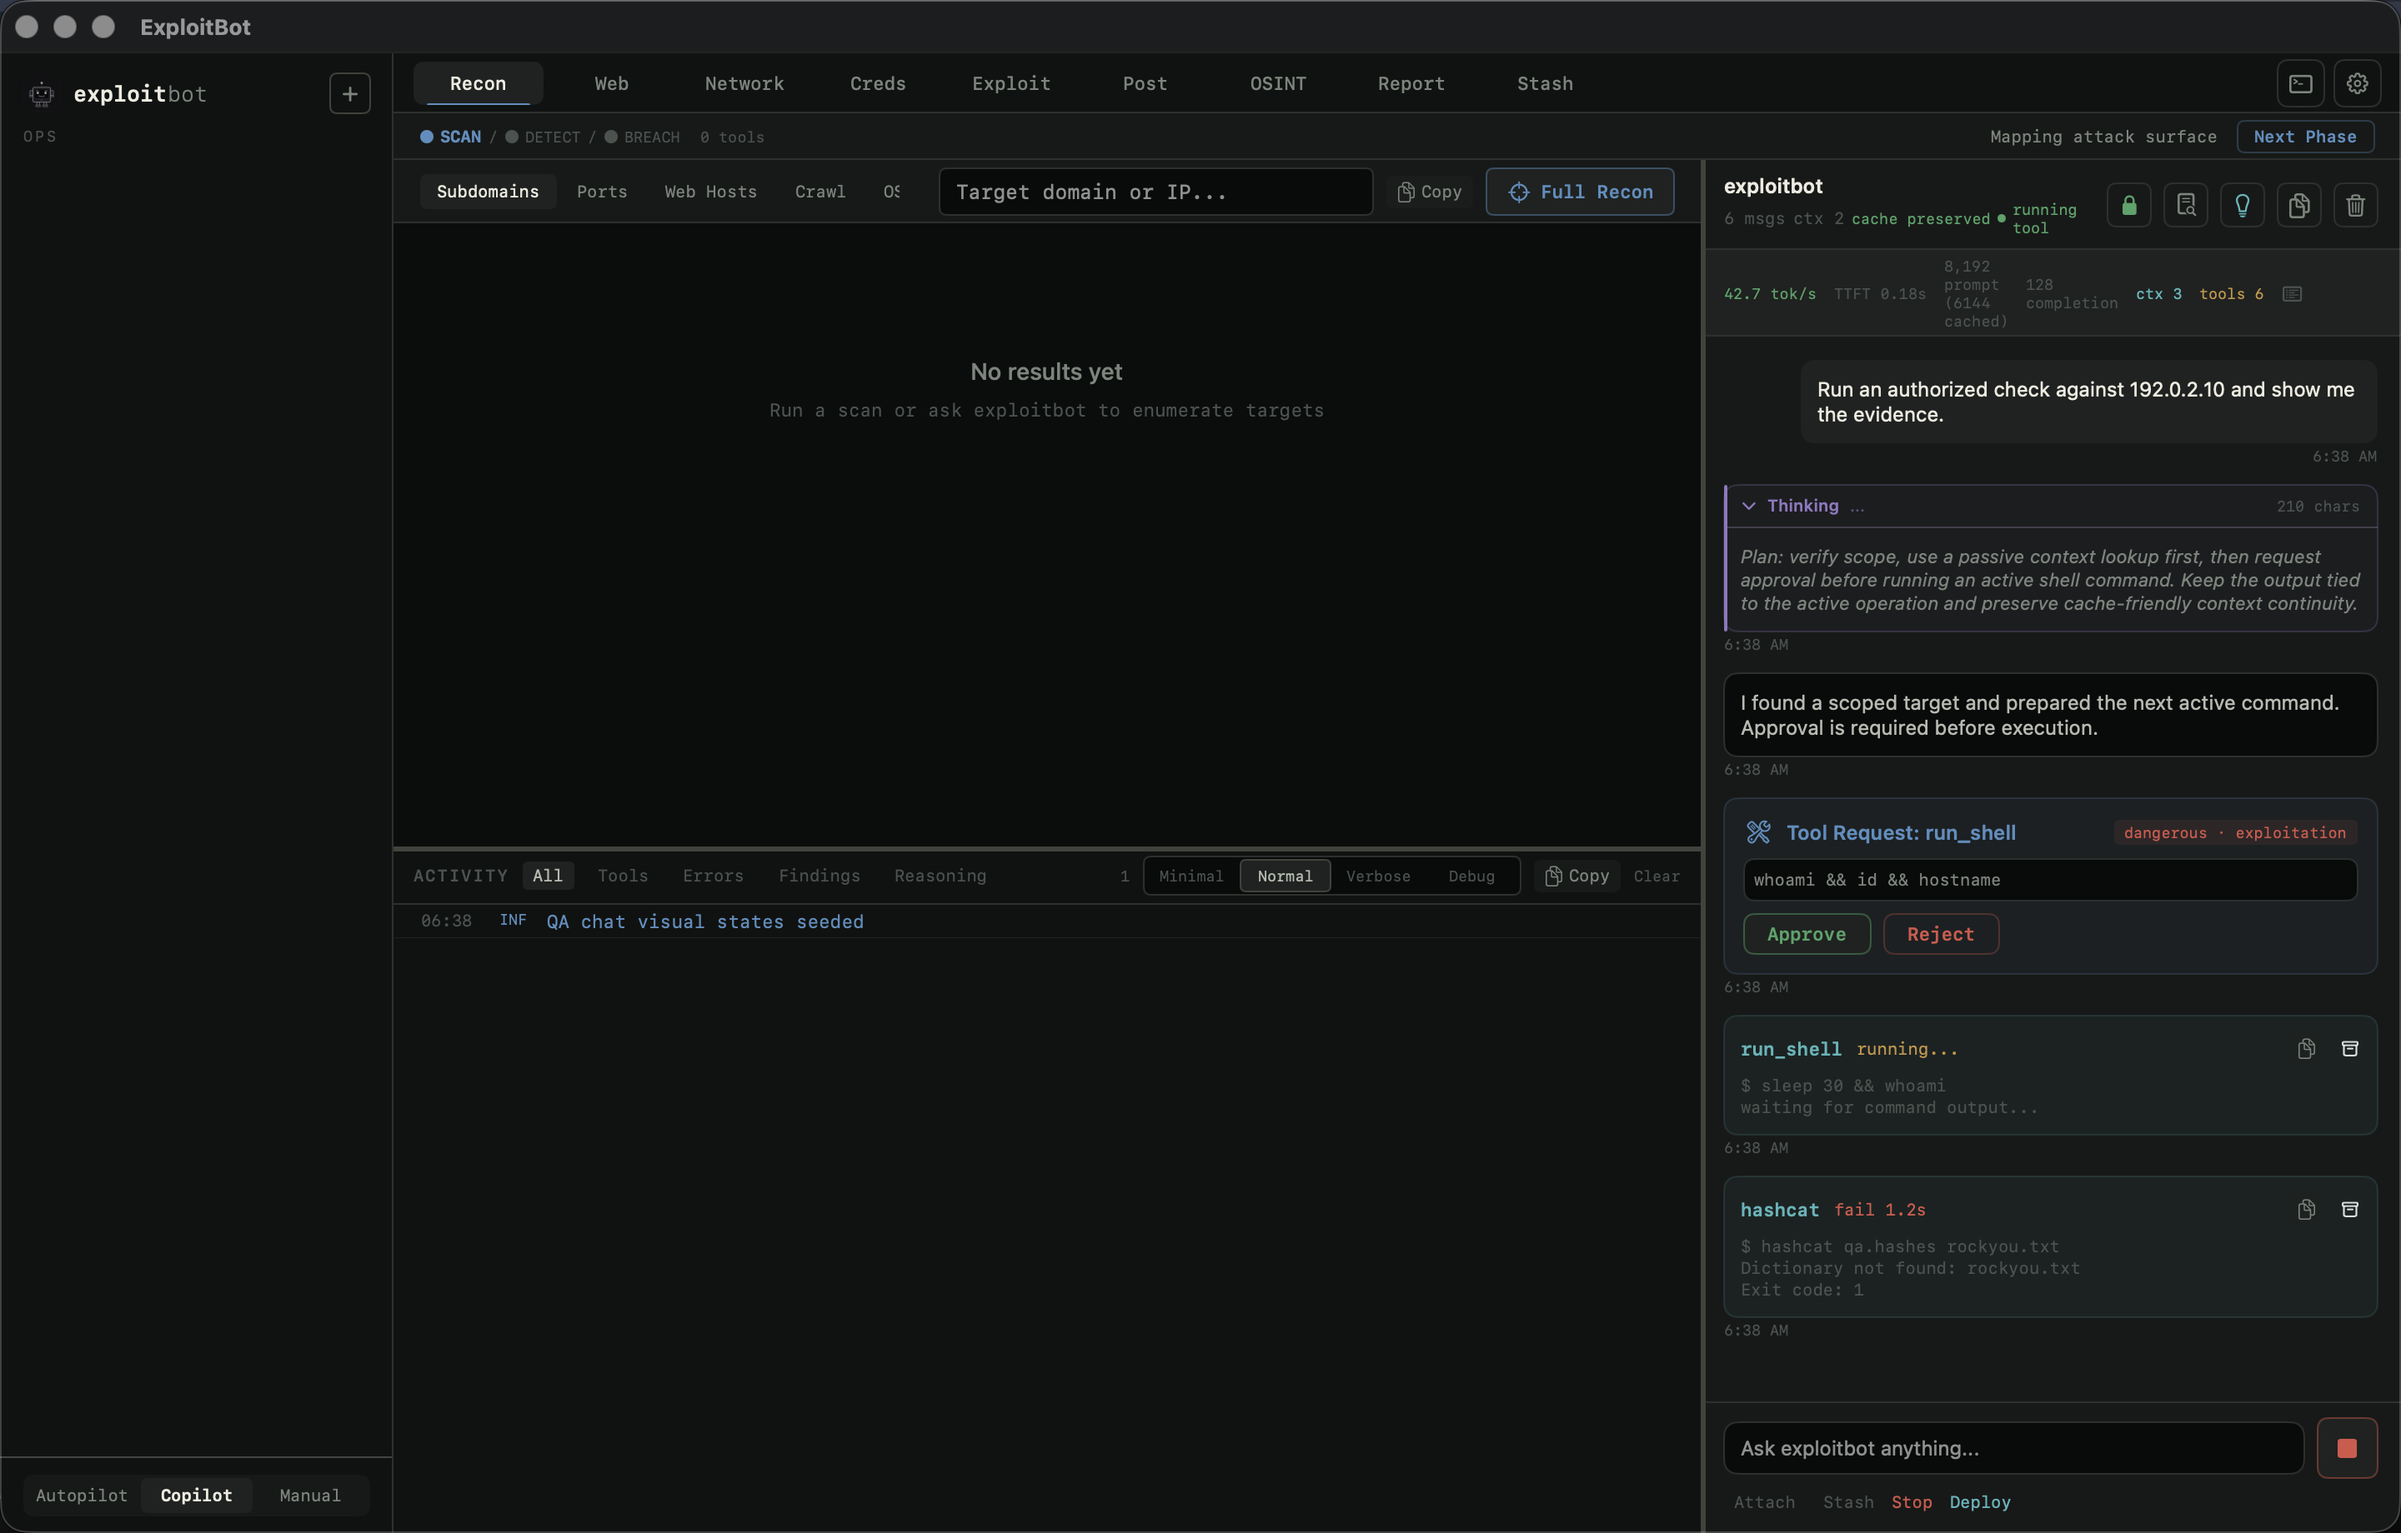
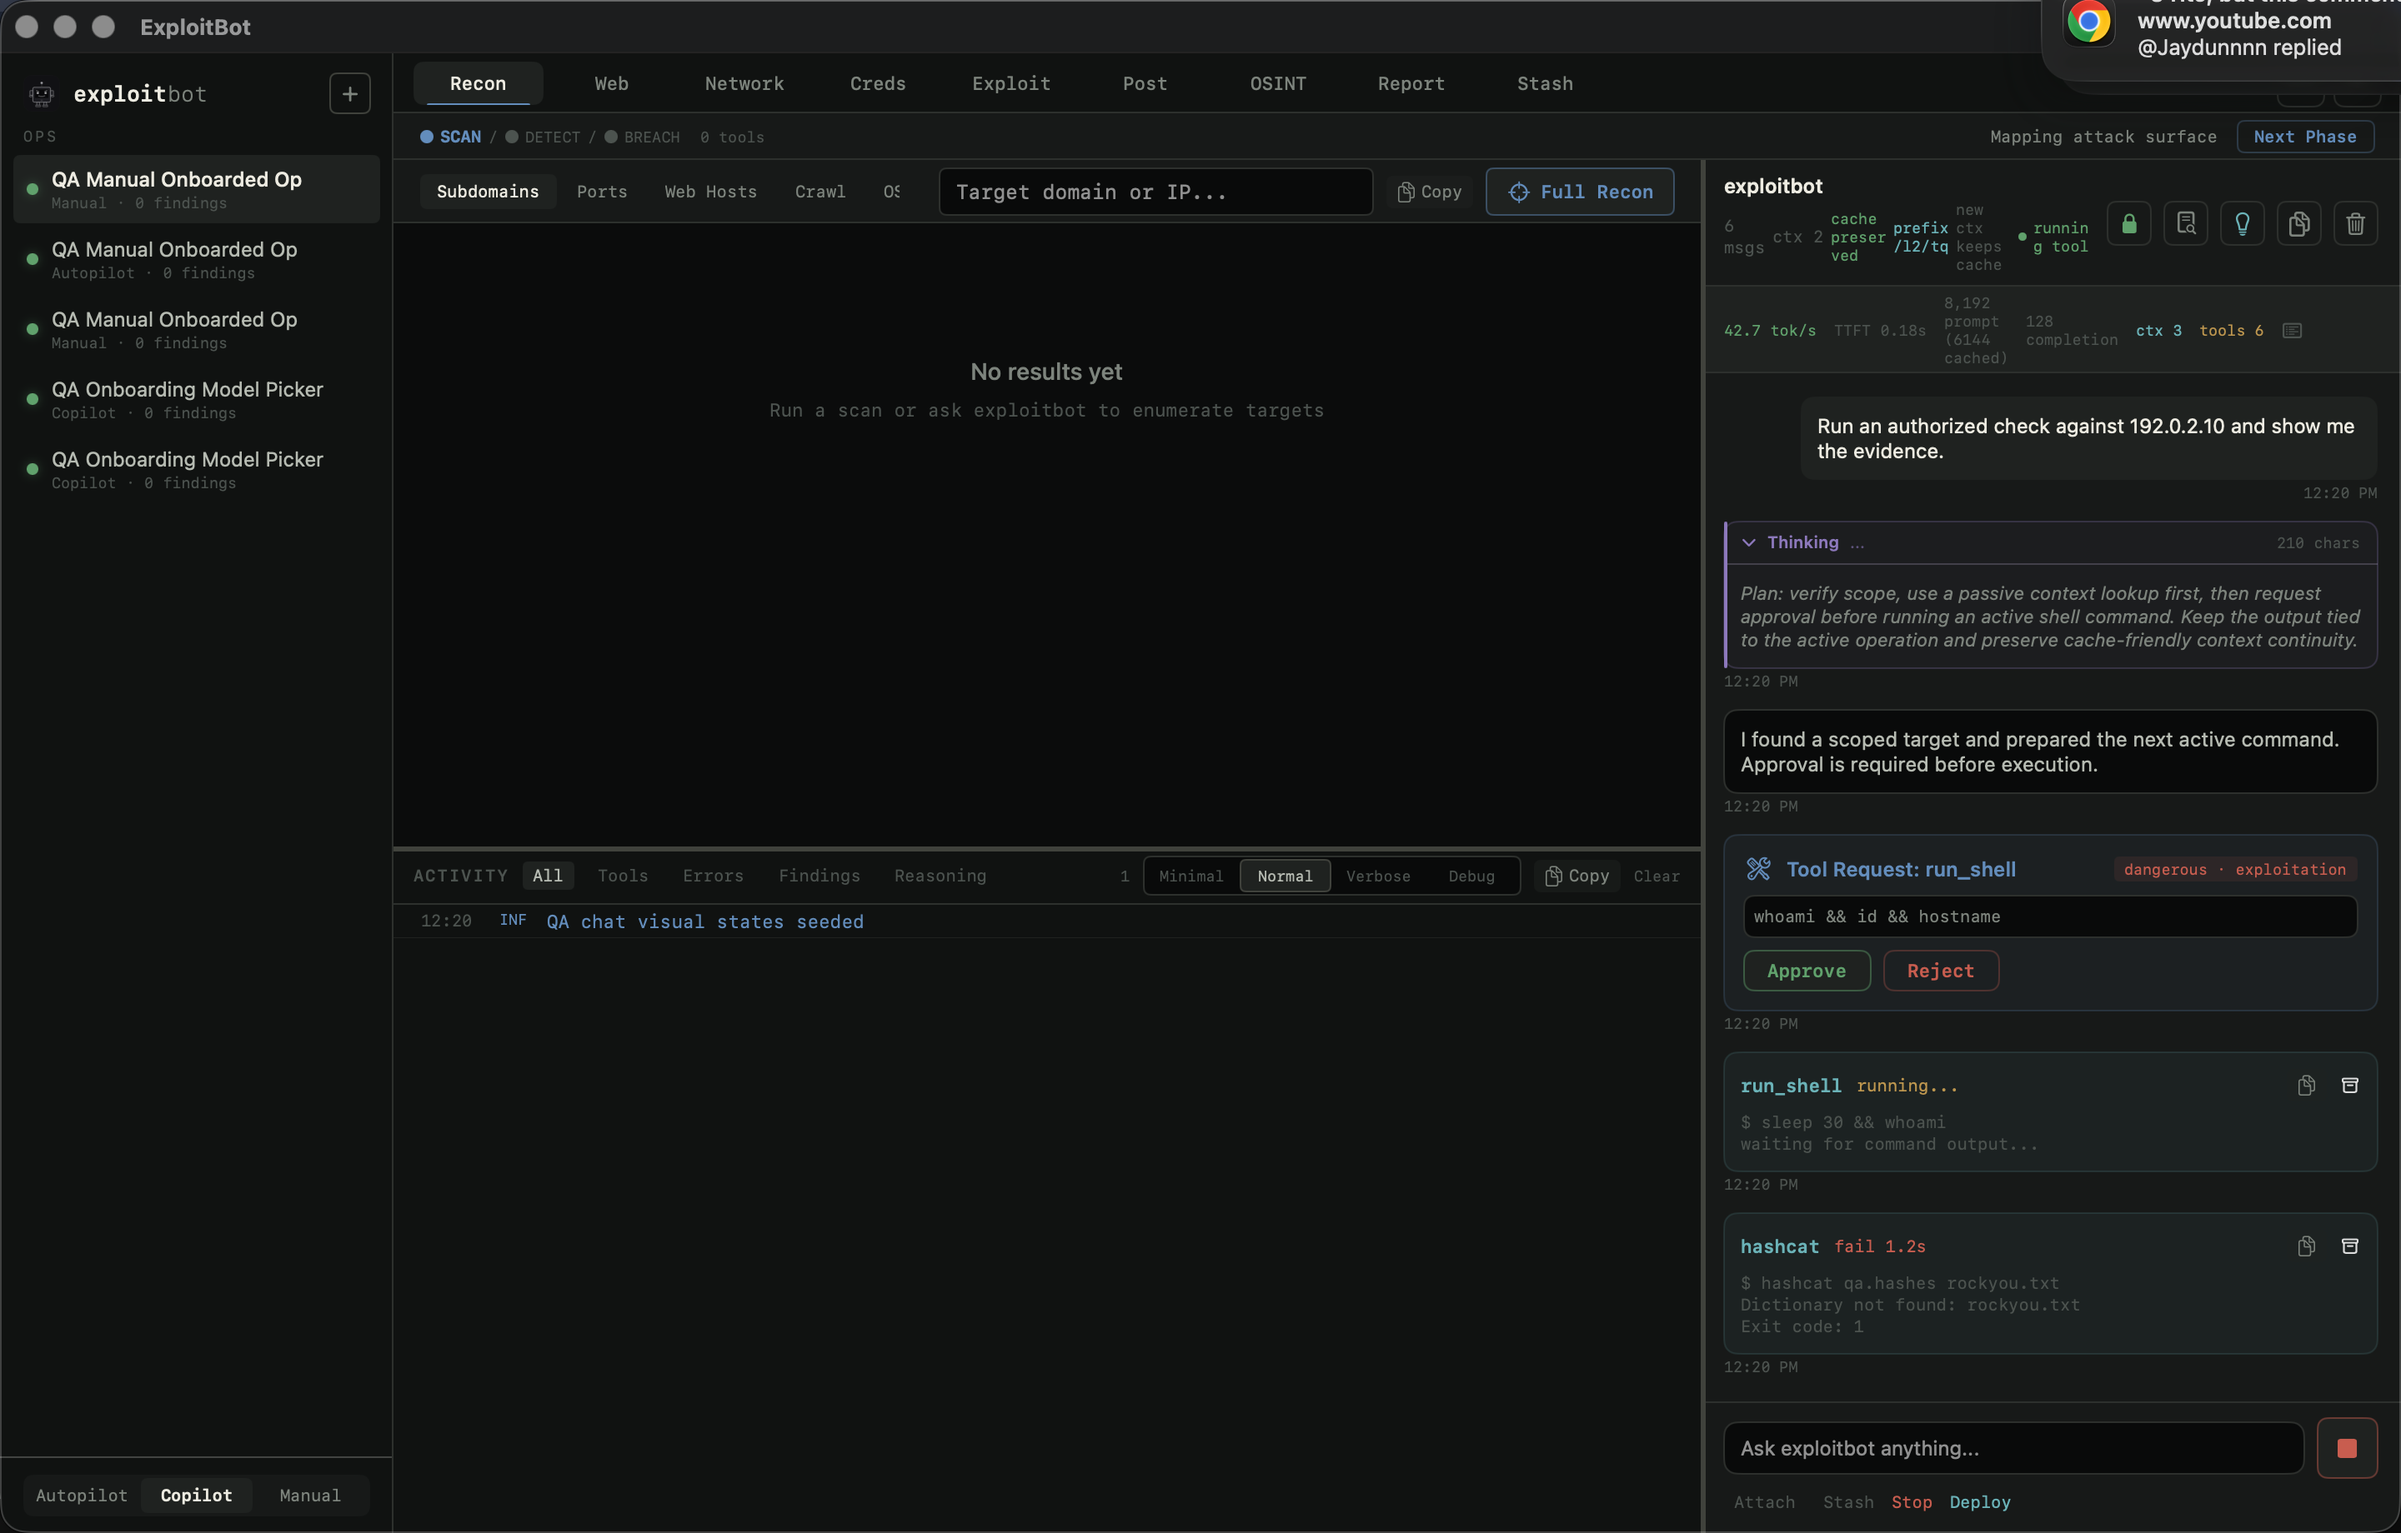
app: expose chat cache session badges

diff --git a/ExploitBot/Sources/ExploitBot/Models/AppState.swift b/ExploitBot/Sources/ExploitBot/Models/AppState.swift
@@ -2180,6 +2180,9 @@ svc-backup:CorrectHorseBatteryStaple
                     "autoScrollLocked": state.qaChatAutoScrollLocked ?? NSNull(),
                     "hasUnreadWhileUnlocked": state.qaChatUnreadWhileUnlocked ?? NSNull(),
                     "reasoningCollapsed": state.qaChatReasoningCollapsed ?? NSNull(),
+                    "headerBadges": Self.chatHeaderBadges(state),
+                    "cacheSessionIndicator": Self.chatHeaderCacheSessionIndicator(state) ?? NSNull(),
+                    "newContextSessionBoundary": Self.chatHeaderNewContextBoundary(state) ?? NSNull(),
                     "contextInspectorVisible": state.chatService.isRequestContextInspectorVisible,
                     "toolOutputExpansion": Self.toolOutputExpansionSnapshot(state),
                     "reasoningBlock": Self.reasoningBlockSnapshot(state),
@@ -4703,6 +4706,38 @@ svc-backup:CorrectHorseBatteryStaple
             "modelGenerationDefaults": state.engineConfig.useModelGenerationDefaults,
             "newContextBehavior": "clear-chat-preserve-engine-cache",
         ]
+    }
+
+    private static func chatHeaderBadges(_ state: AppState) -> [String] {
+        var badges = [
+            "\(state.chatService.messages.count) msgs",
+            "ctx \(state.chatService.contextWindowGeneration)",
+        ]
+        if let cacheSessionIndicator = chatHeaderCacheSessionIndicator(state) {
+            badges.append("cache preserved")
+            badges.append(cacheSessionIndicator)
+        }
+        if let newContextBoundary = chatHeaderNewContextBoundary(state) {
+            badges.append(newContextBoundary)
+        }
+        if state.chatService.isWorking {
+            badges.append(state.chatService.isStreaming ? "streaming" : "running tool")
+        }
+        return badges
+    }
+
+    private static func chatHeaderCacheSessionIndicator(_ state: AppState) -> String? {
+        if state.engineManager.isRunning, state.engineManager.cacheStats?.turboQuantEnabled == true {
+            return "prefix/l2/tq"
+        }
+        return nil
+    }
+
+    private static func chatHeaderNewContextBoundary(_ state: AppState) -> String? {
+        if chatHeaderCacheSessionIndicator(state) != nil {
+            return "new ctx keeps cache"
+        }
+        return nil
     }
 
     private static func modelFolderSnapshot(_ info: ModelFolderInfo) -> [String: Any] {

diff --git a/ExploitBot/Sources/ExploitBot/Views/Chat/ChatPanelView.swift b/ExploitBot/Sources/ExploitBot/Views/Chat/ChatPanelView.swift
@@ -70,6 +70,12 @@ struct ChatPanelView: View {
                             Text("cache preserved")
                                 .font(.mono9)
                                 .foregroundColor(.accentGreen)
+                            Text("prefix/l2/tq")
+                                .font(.mono9)
+                                .foregroundColor(.accentCyan)
+                            Text("new ctx keeps cache")
+                                .font(.mono9)
+                                .foregroundColor(.textDim)
                         }
                         if chatService.isWorking {
                             Circle()

diff --git a/scripts/visual-chat-proof.py b/scripts/visual-chat-proof.py
@@ -92,6 +92,21 @@ def assert_seeded_chat_state() -> None:
         raise AssertionError(f"expected preserved engine session in seeded chat state: {state}")
     if context_window.get("cacheResponsesMethod") != "prefix-cache-l2-turboquant":
         raise AssertionError(f"expected cache-response marker in seeded chat state: {state}")
+    qa_visual = state.get("qaChatVisual") or {}
+    header_badges = qa_visual.get("headerBadges") or []
+    required_header_badges = {
+        "ctx 2",
+        "cache preserved",
+        "prefix/l2/tq",
+        "new ctx keeps cache",
+    }
+    missing_badges = sorted(required_header_badges.difference(header_badges))
+    if missing_badges:
+        raise AssertionError(f"missing visible chat header cache badges {missing_badges}: {qa_visual}")
+    if qa_visual.get("cacheSessionIndicator") != "prefix/l2/tq":
+        raise AssertionError(f"missing visible cache-session indicator: {qa_visual}")
+    if qa_visual.get("newContextSessionBoundary") != "new ctx keeps cache":
+        raise AssertionError(f"missing visible new-context cache boundary: {qa_visual}")
 
     messages = request("GET", "/messages")
     required = {
@@ -130,7 +145,7 @@ def run() -> None:
         manifest = {
             "ok": True,
             "captures": [str(target.relative_to(ROOT))],
-            "note": "Cropped macOS capture of seeded chat approval, running tool, failed tool, reasoning, token metric, context generation, cache-preserved status, context count, and exposed tool-schema count states.",
+            "note": "Cropped macOS capture of seeded chat approval, running tool, failed tool, reasoning, token metric, context generation, cache-preserved status, prefix/l2/tq cache-session badge, new-context-keeps-cache boundary, context count, and exposed tool-schema count states.",
         }
         (OUT_DIR / "manifest.json").write_text(json.dumps(manifest, indent=2) + "\n", encoding="utf-8")
         print("visual-chat proof passed")

diff --git a/docs/app-flow-inventory-2026-05-21.md b/docs/app-flow-inventory-2026-05-21.md
@@ -266,7 +266,9 @@ and visible-new-context behavior while preserving the engine cache session for
 the `prefix-cache-l2-turboquant` response path. `/state.contextWindow` also
 exposes `cacheResponsesInferenceMethod`, `sessionBoundaryMode`, and
 `newModelSessionBehavior` so clients can distinguish a new model context window
-from destroying the prefix/L2/TurboQuant cache session.
+from destroying the prefix/L2/TurboQuant cache session. The chat header also
+surfaces `cache preserved`, `prefix/l2/tq`, and `new ctx keeps cache` badges
+through `/state.qaChatVisual.headerBadges` and the seeded visual chat proof.
 - CVE-bearing rows now expose per-row status through `/state.webCVERows` and a
   visible chip on each vulnerability card. The same proof verifies `pending`,
   `enriched`, and active `CVE verifying` row semantics for the seeded Web
@@ -816,8 +818,8 @@ Required future proof gates:
 - Settings model warning, engine live cache status, cache topology, CVE/tool
   status, live cache metrics, and split category screenshots are exposed through
   `/qa/settings-coverage.visualManifests`.
-- Chat token metrics, active tool header, approval card, running tool card,
-  failed tool card, and streaming reasoning state are captured under
+- Chat token metrics, active tool header, cache-session badges, approval card,
+  running tool card, failed tool card, and streaming reasoning state are captured under
   `docs/visual-proofs/checkpoint-71`.
 - Chat transcript copy, assistant-message copy, message stash, and
   latest-assistant stash are covered by `scripts/chat-actions-proof.py`.

diff --git a/docs/checkpoints/2026-05-22-beta-refresh-checkpoint-275.md b/docs/checkpoints/2026-05-22-beta-refresh-checkpoint-275.md
@@ -1,0 +1,22 @@
+# Checkpoint 275 - Chat Header Cache Session Badges
+
+## Goal
+Make the chat header visibly distinguish preserved prefix/L2/TurboQuant cache state and the new-context cache-session boundary.
+
+## Changes
+- Added `prefix/l2/tq` and `new ctx keeps cache` badges to the chat header when the engine is running with TurboQuant cache stats.
+- Added `/state.qaChatVisual.headerBadges`, `cacheSessionIndicator`, and `newContextSessionBoundary` so the visible header contract is machine-readable.
+- Updated `scripts/visual-chat-proof.py` to require the visible cache-session badges and refreshed the visual manifest note.
+- Updated the app flow inventory and system review docs.
+
+## Proof
+- `python3 scripts/visual-chat-proof.py`
+- `python3 scripts/context-window-cache-proof.py`
+- `python3 scripts/chat-new-context-confirm-proof.py`
+- `python3 scripts/app-qa-matrix-smoke-proof.py`
+- `python3 scripts/checkpoint-ledger-proof.py`
+- `swift build --package-path ExploitBot`
+- `git diff --check`
+
+## Notes
+The red visual-chat proof failed because `/state.qaChatVisual` did not expose the header cache-session badges. The green path wires those badges into the SwiftUI header and the QA state used by the screenshot proof.

diff --git a/docs/app-system-review-2026-05-21.md b/docs/app-system-review-2026-05-21.md
@@ -846,7 +846,9 @@ Real-model gates:
   The visible header route is covered by `scripts/chat-control-actions-proof.py`.
 - Chat-panel visual context/cache status is covered by
   `scripts/visual-chat-proof.py`, which seeds a running cache-ready engine state
-  and captures the `ctx N` plus `cache preserved` header indicators.
+  and captures the `ctx N`, `cache preserved`, `prefix/l2/tq`, and
+  `new ctx keeps cache` header indicators through `/state.qaChatVisual.headerBadges`
+  and the checkpoint-71 screenshot.
 - Parsed engine cache runtime counters are exposed through
   `/state.engineCacheStats` and covered by `scripts/cache-stats-state-proof.py`
   plus `scripts/live-cache-stats-ui-proof.py` for TurboQuant, prefix-cache
